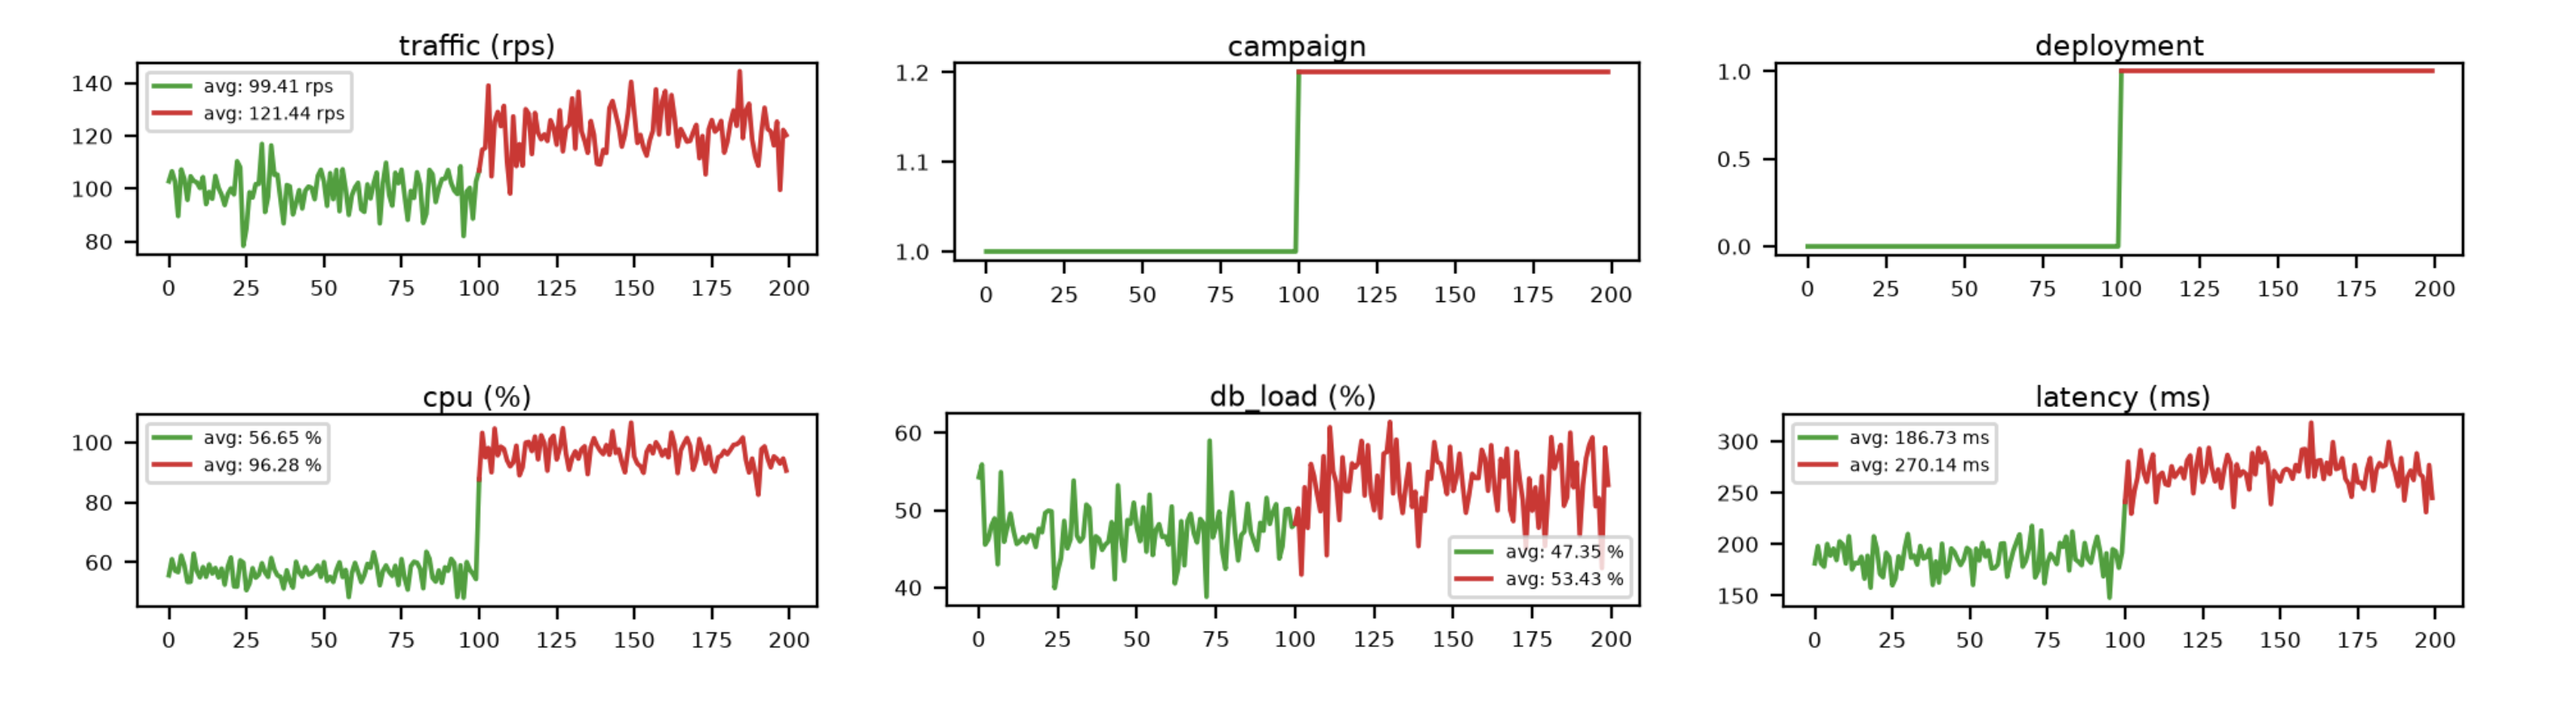
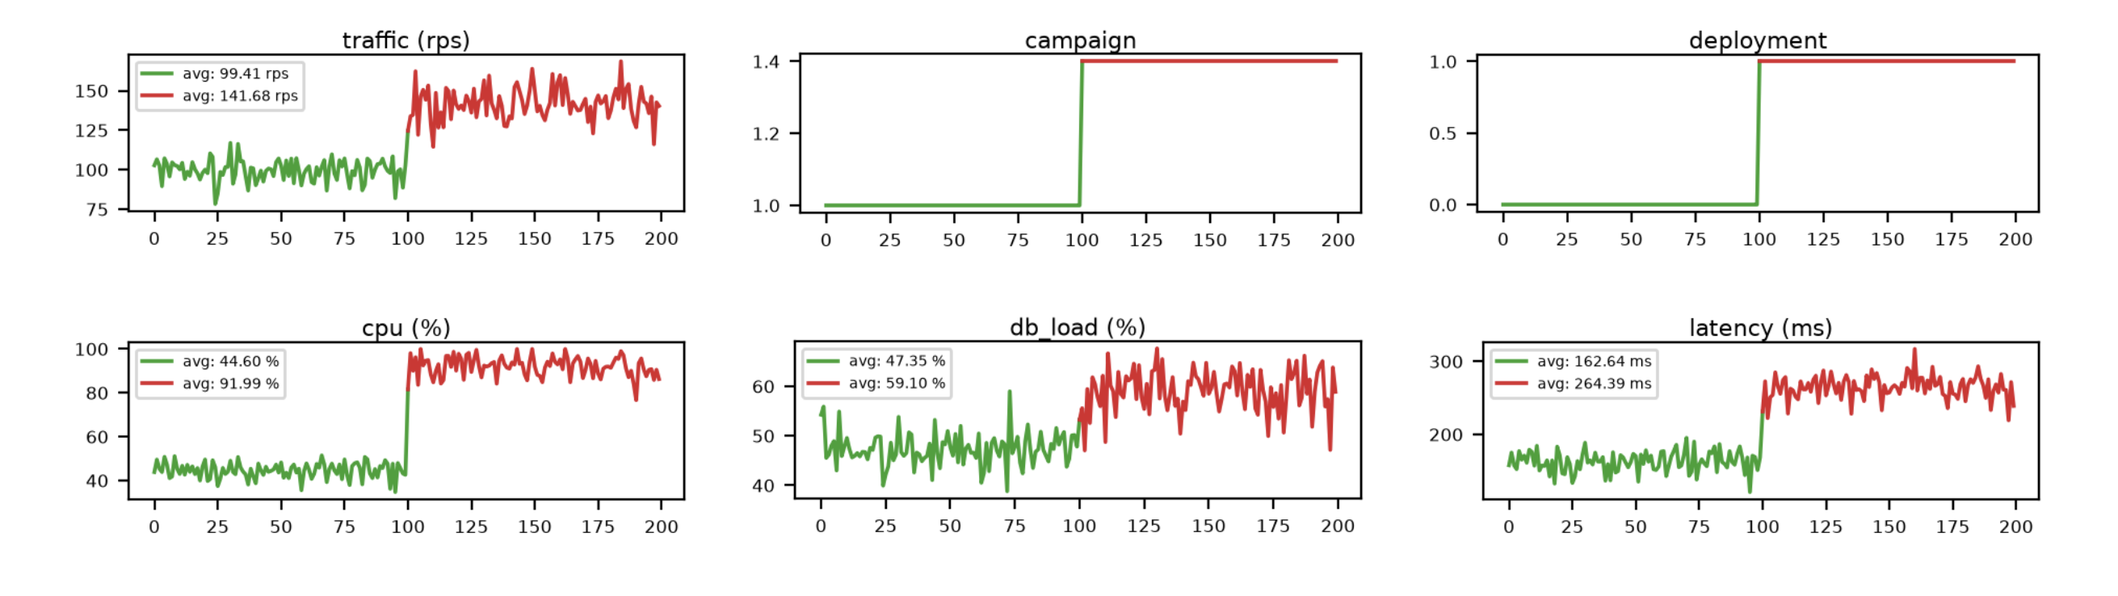
assets

Changed region(s): [[0.0309, 0.5298, 0.9577, 0.935], [0.0309, 0.0312, 0.9577, 0.4363]]

diff --git a/content/posts/dowhy.md b/content/posts/dowhy.md
@@ -16,13 +16,28 @@ RCA is then an exercise done by engineers, carefully reasoning over the metrics 
 
 # Can we do better?
 
-I started looking into [Causal Machine Learning](https://medium.com/causality-in-data-science/why-machine-learning-needs-causality-3d33e512cd37) and to my luck, some good folks at Microsoft and AWS have already done much of the heavy lifting through [DoWhy](https://www.pywhy.org/dowhy/v0.10.1/index.html) and its Graphical Causal Model (GCM) framework.
+While looking for solutions, I came across [Causal Machine Learning](https://medium.com/causality-in-data-science/why-machine-learning-needs-causality-3d33e512cd37) which looked promising, and to my luck, some good folks at Microsoft and AWS have already done much of the heavy lifting in the [DoWhy](https://www.pywhy.org/dowhy/v0.10.1/index.html) library. Their documentation does an excellent job of showcasing practical applications of causal modeling, check it out!
 
-Imagine you own a standard three-tier web app. A normal day looks like this:
+To put DoWhy into practice, imagine you're running a standard three-tier web app – frontend, backend, database.
+
+On a normal day, your operations look something like this:
 ![all-good](/posts/normal.png)
 
-Then, one day, you are staring at this.
-![all-good](/posts/incident.png)
+Then, one day, you are staring at this:
+![all-bad](/posts/incident.png)
+
+Let me point out that this is already a pretty decent dashboard. Alongside the usual metrics, it captures ongoing events such as the start of a campaign or a new deployment thus giving you valuable context for what was happening in the system that may have caused the incident.
+
+But even then, the dashboard isn't actionable. Did the deployment introduce a regression? Or is this simply what the system looks like under this level of traffic?
+
+Here's another scenario. Let's make the same deployment w/o the bug while keeping everything else unchanged.
+![strange](/posts/cdnoregress.png)
+
+Once again, there's the same spike in traffic. Latency also shifted though not nearly as much as before. The campaign and deployment took place just as they did in the previous incident. Yet this time, the deployment has no bug.
+
+So how does one tell them apart? In the first incident, you'd want to investigate the deployment. In the second incident, you can safely ignore it and look elsewhere.
+
+These are exactly the kinds of questions Causal ML can answer.
 
 ```mermaid
 graph LR
